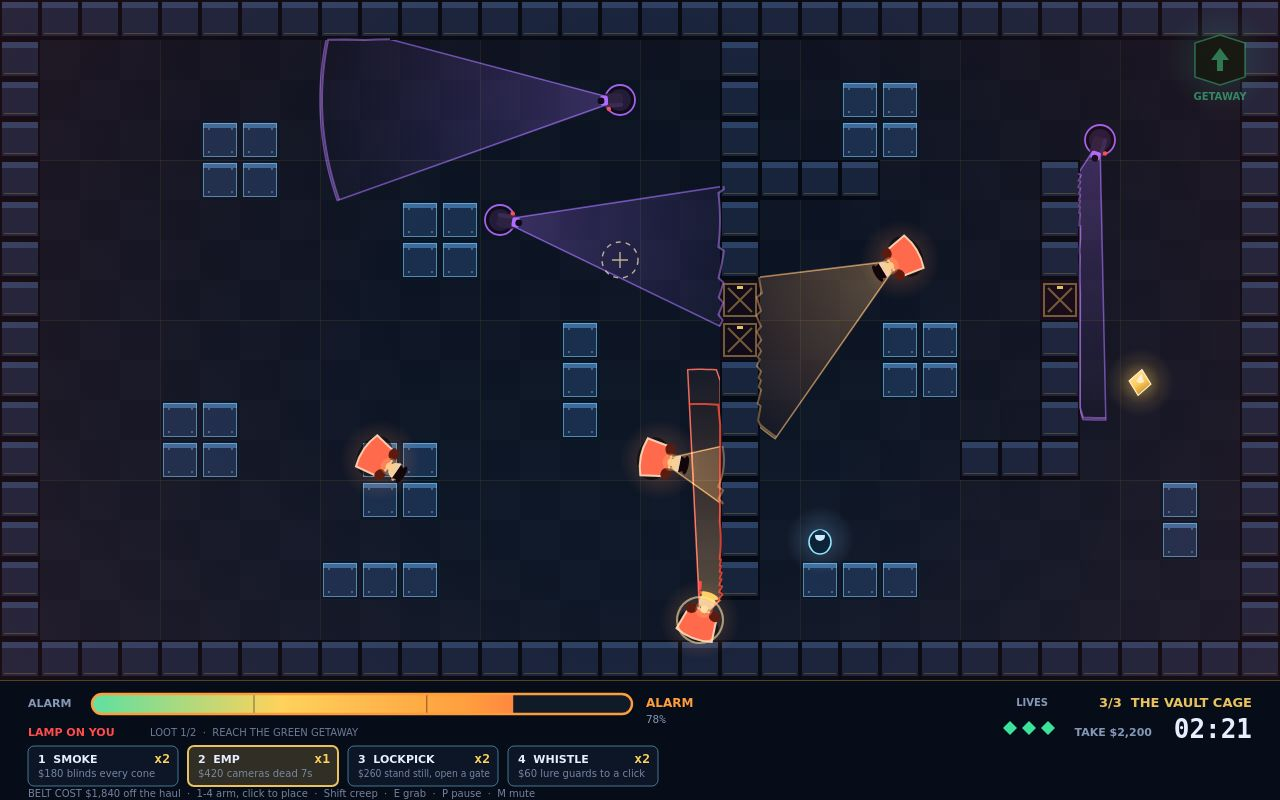
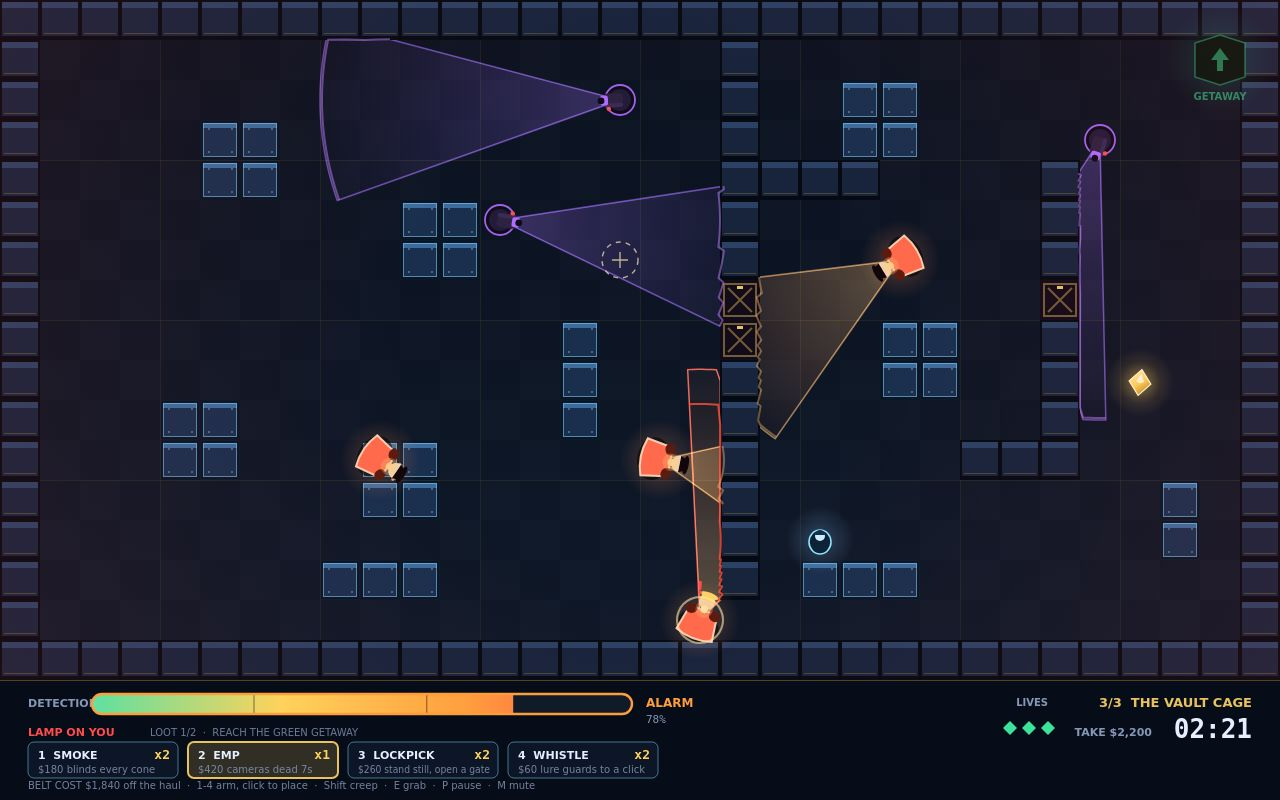
HUD: detection label, footer no longer sits on the frame edge

Changed region(s): [[0.0, 0.875, 0.5312, 1.0]]

diff --git a/game/src/hud.js b/game/src/hud.js
@@ -26,7 +26,7 @@ function drawAlarmMeter(ctx, game, y0) {
   ctx.textAlign = 'left';
   ctx.font = `bold 11px ${FONT}`;
   ctx.fillStyle = THEME.dim;
-  ctx.fillText('ALARM', 28, y0 + 27);
+  ctx.fillText('DETECTION', 28, y0 + 27);
   const barX = 92;
   const barY = y0 + 14;
   const barW = 540;
@@ -119,9 +119,9 @@ function drawRunStats(ctx, game, y0) {
 /** The four tool slots, their prices and counts, with the armed one highlighted. */
 function drawBelt(ctx, game, y0) {
   const bx = 28;
-  const by = y0 + 66;
+  const by = y0 + 62;
   const bw = 150;
-  const bh = 40;
+  const bh = 36;
   for (let i = 0; i < TOOLS.length; i++) {
     const t = TOOLS[i];
     const x = bx + i * (bw + 10);
@@ -150,7 +150,7 @@ function drawBelt(ctx, game, y0) {
   ctx.font = `10px ${FONT}`;
   ctx.fillStyle = 'rgba(134,152,184,0.85)';
   ctx.fillText(`BELT COST $${game.beltCost.toLocaleString('en-US')} off the haul  ·  1-4 arm, click to place  ·  Shift creep  ·  E grab  ·  P pause  ·  M mute`,
-    bx, y0 + 117);
+    bx, y0 + 109);
 }
 
 /** The whole readout band. */
